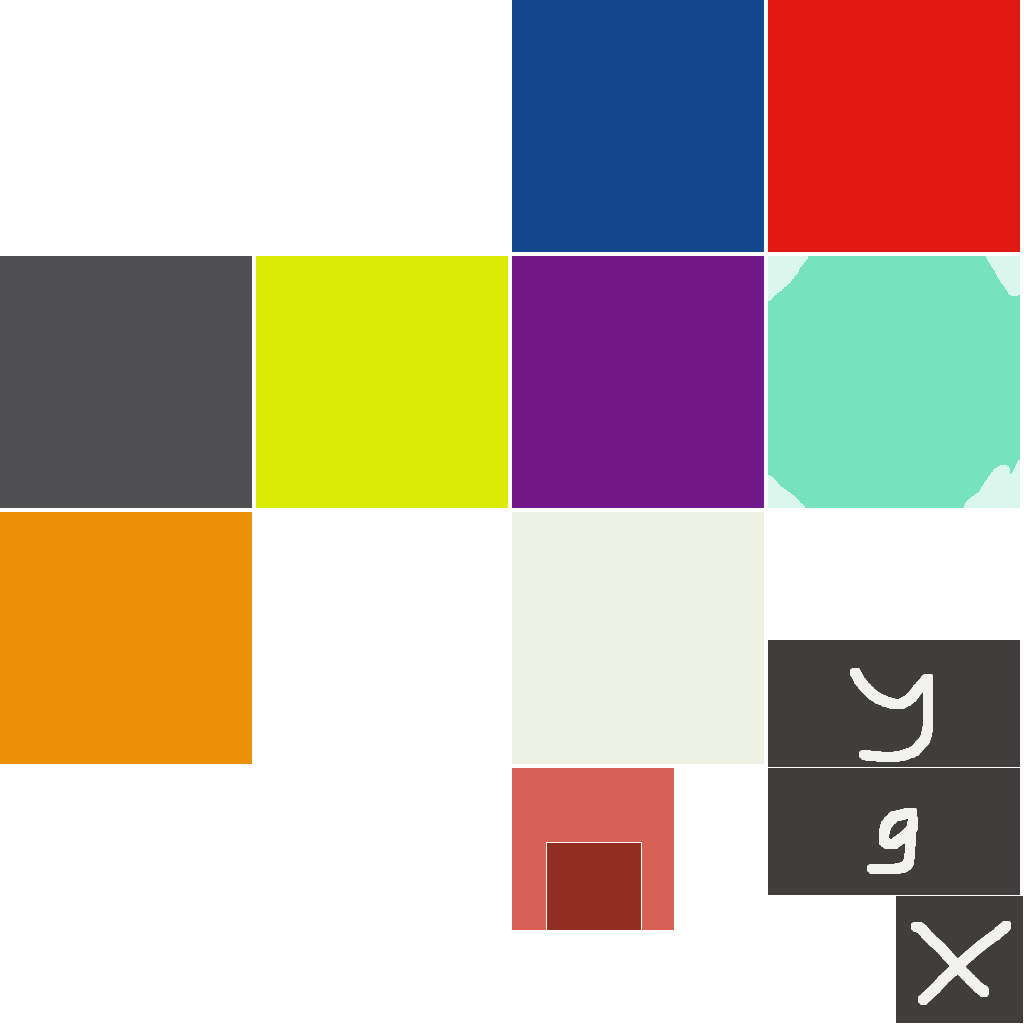
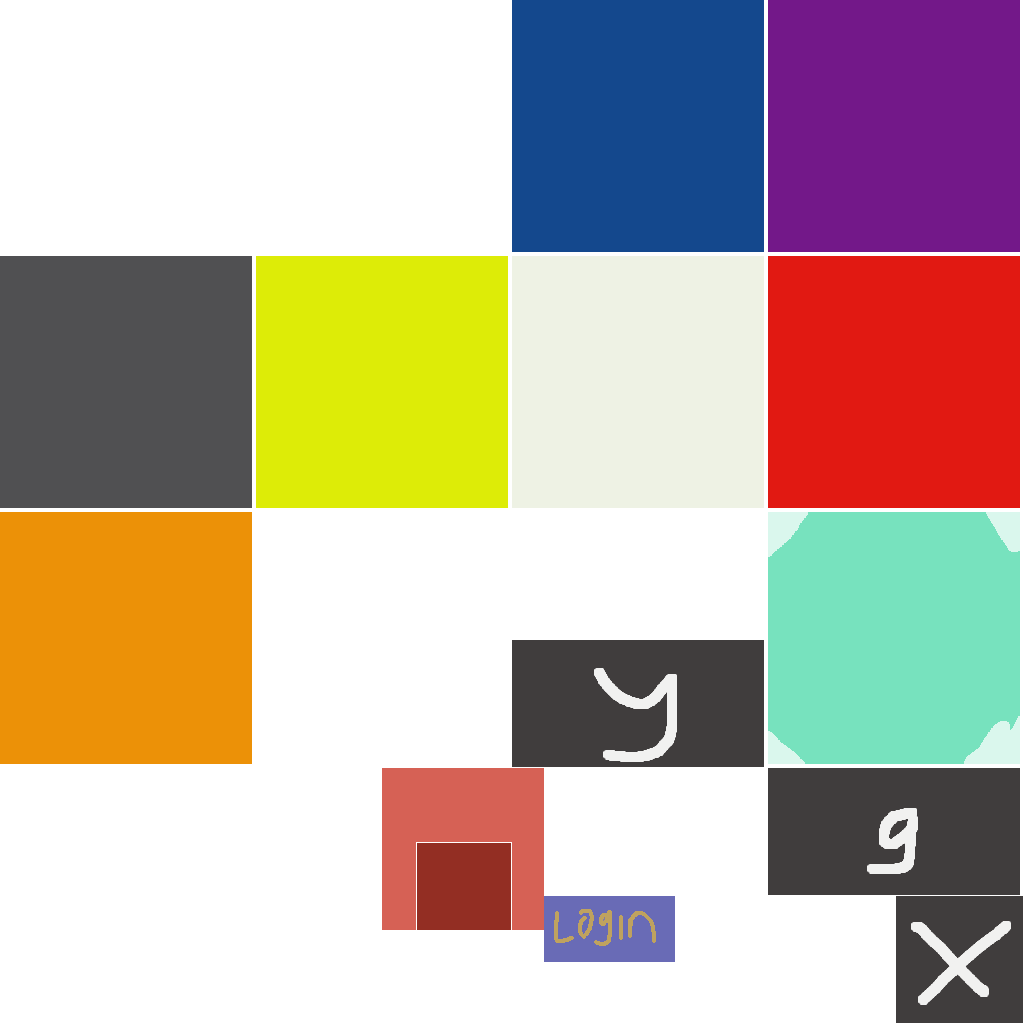
upd game-perempat: loading and login screen

diff --git a/game-perempat/scripts/c3runtime.js b/game-perempat/scripts/c3runtime.js
@@ -3121,40 +3121,6 @@ currenteventsheetname(){return this._runtime.GetCurrentEvent().GetEventSheet().G
 }
 
 {
-'use strict';const C3=self.C3;const DOM_COMPONENT_ID="iframe";C3.Plugins.iframe=class IframePlugin extends C3.SDKDOMPluginBase{constructor(opts){super(opts,DOM_COMPONENT_ID)}Release(){super.Release()}};
-
-}
-
-{
-'use strict';const C3=self.C3;C3.Plugins.iframe.Type=class IframeType extends C3.SDKTypeBase{constructor(objectClass){super(objectClass)}Release(){super.Release()}OnCreate(){}};
-
-}
-
-{
-'use strict';const C3=self.C3;const C3X=self.C3X;const DOM_COMPONENT_ID="iframe";
-C3.Plugins.iframe.Instance=class IframeInstance extends C3.SDKDOMInstanceBase{constructor(inst,properties){super(inst,DOM_COMPONENT_ID);this._url="";let initialHtmlStr="";this._id="";this._allowAttrib="";this._enableSandbox=false;this._sandboxAttrib="";if(properties){this._url=properties[0];initialHtmlStr=properties[1];this.GetWorldInfo().SetVisible(properties[2]);this._id=properties[3];this._allowAttrib=properties[4];this._enableSandbox=properties[5];this._sandboxAttrib=properties[6]}this.CreateElement({"url":"",
-"html":initialHtmlStr,"id":this._id,"allow":this._allowAttrib,"enableSandbox":this._enableSandbox,"sandbox":this._sandboxAttrib});if(this._url)this._runtime.AddCreatePromise((async()=>{const urlToLoad=await this.GetUrl();await this.PostToDOMElementAsync("navigate-url",{"url":urlToLoad})})())}Release(){super.Release()}GetElementState(){return{}}async GetUrl(url){return await this._runtime.GetAssetManager().GetProjectFileIframeUrl(url||this._url)}Draw(renderer){}SaveToJson(){return{"url":this._url,
-"id":this._id}}LoadFromJson(o){this._url=o["url"];this._id=o["id"];this.UpdateElementState()}GetDebuggerProperties(){const Acts=C3.Plugins.iframe.Acts;const prefix="plugins.iframe";return[{title:prefix+".name",properties:[{name:prefix+".properties.url.name",value:this._url,onedit:v=>this.CallAction(Acts.NavigateURL,v)}]}]}GetScriptInterfaceClass(){return self.IIframeInstance}};const map=new WeakMap;
-self.IIframeInstance=class IIframeInstance extends self.IDOMInstance{constructor(){super();map.set(this,self.IInstance._GetInitInst().GetSdkInstance())}};
-
-}
-
-{
-'use strict';const C3=self.C3;C3.Plugins.iframe.Cnds={};
-
-}
-
-{
-'use strict';const C3=self.C3;C3.Plugins.iframe.Acts={async NavigateURL(url){const urlToLoad=await this.GetUrl(url);this.PostToDOMElement("navigate-url",{"url":urlToLoad})},DisplayHTMLString(html){this.PostToDOMElement("display-html",{"html":html})}};
-
-}
-
-{
-'use strict';const C3=self.C3;C3.Plugins.iframe.Exps={};
-
-}
-
-{
 'use strict';const C3=self.C3;C3.Plugins.Sprite=class SpritePlugin extends C3.SDKPluginBase{constructor(opts){super(opts)}Release(){super.Release()}};
 
 }
@@ -3241,6 +3207,40 @@ err);this.Trigger(C3.Plugins.Sprite.Cnds.OnURLFailed);return}curImageInfo.Replac
 'use strict';const C3=self.C3;
 C3.Plugins.Sprite.Exps={AnimationFrame(){return this._currentFrameIndex},AnimationFrameCount(){return this._currentAnimation.GetFrameCount()},AnimationName(){return this._currentAnimation.GetName()},AnimationSpeed(){return this._GetAnimSpeed()},OriginalAnimationSpeed(){return this._currentAnimation.GetSpeed()},ImagePointX(imgpt){return this.GetImagePoint(imgpt)[0]},ImagePointY(imgpt){return this.GetImagePoint(imgpt)[1]},ImagePointCount(){return this.GetImagePointCount()},ImageWidth(){return this.GetCurrentImageInfo().GetWidth()},
 ImageHeight(){return this.GetCurrentImageInfo().GetHeight()},PolyPointXAt(i){return this.GetCollisionPolyPoint(i)[0]},PolyPointYAt(i){return this.GetCollisionPolyPoint(i)[1]},PolyPointCount(){return this.GetCollisionPolyPointCount()}};
+
+}
+
+{
+'use strict';const C3=self.C3;const DOM_COMPONENT_ID="iframe";C3.Plugins.iframe=class IframePlugin extends C3.SDKDOMPluginBase{constructor(opts){super(opts,DOM_COMPONENT_ID)}Release(){super.Release()}};
+
+}
+
+{
+'use strict';const C3=self.C3;C3.Plugins.iframe.Type=class IframeType extends C3.SDKTypeBase{constructor(objectClass){super(objectClass)}Release(){super.Release()}OnCreate(){}};
+
+}
+
+{
+'use strict';const C3=self.C3;const C3X=self.C3X;const DOM_COMPONENT_ID="iframe";
+C3.Plugins.iframe.Instance=class IframeInstance extends C3.SDKDOMInstanceBase{constructor(inst,properties){super(inst,DOM_COMPONENT_ID);this._url="";let initialHtmlStr="";this._id="";this._allowAttrib="";this._enableSandbox=false;this._sandboxAttrib="";if(properties){this._url=properties[0];initialHtmlStr=properties[1];this.GetWorldInfo().SetVisible(properties[2]);this._id=properties[3];this._allowAttrib=properties[4];this._enableSandbox=properties[5];this._sandboxAttrib=properties[6]}this.CreateElement({"url":"",
+"html":initialHtmlStr,"id":this._id,"allow":this._allowAttrib,"enableSandbox":this._enableSandbox,"sandbox":this._sandboxAttrib});if(this._url)this._runtime.AddCreatePromise((async()=>{const urlToLoad=await this.GetUrl();await this.PostToDOMElementAsync("navigate-url",{"url":urlToLoad})})())}Release(){super.Release()}GetElementState(){return{}}async GetUrl(url){return await this._runtime.GetAssetManager().GetProjectFileIframeUrl(url||this._url)}Draw(renderer){}SaveToJson(){return{"url":this._url,
+"id":this._id}}LoadFromJson(o){this._url=o["url"];this._id=o["id"];this.UpdateElementState()}GetDebuggerProperties(){const Acts=C3.Plugins.iframe.Acts;const prefix="plugins.iframe";return[{title:prefix+".name",properties:[{name:prefix+".properties.url.name",value:this._url,onedit:v=>this.CallAction(Acts.NavigateURL,v)}]}]}GetScriptInterfaceClass(){return self.IIframeInstance}};const map=new WeakMap;
+self.IIframeInstance=class IIframeInstance extends self.IDOMInstance{constructor(){super();map.set(this,self.IInstance._GetInitInst().GetSdkInstance())}};
+
+}
+
+{
+'use strict';const C3=self.C3;C3.Plugins.iframe.Cnds={};
+
+}
+
+{
+'use strict';const C3=self.C3;C3.Plugins.iframe.Acts={async NavigateURL(url){const urlToLoad=await this.GetUrl(url);this.PostToDOMElement("navigate-url",{"url":urlToLoad})},DisplayHTMLString(html){this.PostToDOMElement("display-html",{"html":html})}};
+
+}
+
+{
+'use strict';const C3=self.C3;C3.Plugins.iframe.Exps={};
 
 }
 
@@ -3653,6 +3653,47 @@ WindowInnerWidth(){return this._runtime.GetCanvasManager().GetLastWidth()},Windo
 }
 
 {
+'use strict';const C3=self.C3;const DOM_COMPONENT_ID="text-input";C3.Plugins.TextBox=class TextInputPlugin extends C3.SDKDOMPluginBase{constructor(opts){super(opts,DOM_COMPONENT_ID);this.AddElementMessageHandler("click",(sdkInst,e)=>sdkInst._OnClick(e));this.AddElementMessageHandler("dblclick",(sdkInst,e)=>sdkInst._OnDoubleClick(e));this.AddElementMessageHandler("change",(sdkInst,e)=>sdkInst._OnChange(e))}Release(){super.Release()}};
+
+}
+
+{
+'use strict';const C3=self.C3;C3.Plugins.TextBox.Type=class TextInputType extends C3.SDKTypeBase{constructor(objectClass){super(objectClass)}Release(){super.Release()}OnCreate(){}};
+
+}
+
+{
+'use strict';const C3=self.C3;const C3X=self.C3X;const TEXT=0;const PLACEHOLDER=1;const TOOLTIP=2;const INITIALLY_VISIBLE=3;const ENABLE=4;const READ_ONLY=5;const SPELL_CHECK=6;const TYPE=7;const AUTO_FONT_SIZE=8;const ID=9;const DOM_COMPONENT_ID="text-input";const elemTypes=["text","password","email","number","tel","url","textarea","search"];
+C3.Plugins.TextBox.Instance=class TextInputInstance extends C3.SDKDOMInstanceBase{constructor(inst,properties){super(inst,DOM_COMPONENT_ID);this._text="";this._placeholder="";this._title="";this._isEnabled=true;this._isReadOnly=false;this._spellCheck=false;this._type="text";this._autoFontSize=true;this._maxLength=-1;this._id="";if(properties){this._text=properties[TEXT];this._placeholder=properties[PLACEHOLDER];this._title=properties[TOOLTIP];this.GetWorldInfo().SetVisible(properties[INITIALLY_VISIBLE]);
+this._isEnabled=properties[ENABLE];this._isReadOnly=properties[READ_ONLY];this._spellCheck=properties[SPELL_CHECK];this._type=elemTypes[properties[TYPE]];this._autoFontSize=properties[AUTO_FONT_SIZE];this._id=properties[ID]}this.CreateElement({"type":this._type,"id":this._id})}Release(){super.Release()}GetElementState(){return{"text":this._text,"placeholder":this._placeholder,"title":this._title,"isEnabled":this._isEnabled,"isReadOnly":this._isReadOnly,"spellCheck":this._spellCheck,"maxLength":this._maxLength}}async _OnClick(e){this.GetScriptInterface().dispatchEvent(C3.New(C3.Event,
+"click",true));await this.TriggerAsync(C3.Plugins.TextBox.Cnds.OnClicked)}async _OnDoubleClick(e){this.GetScriptInterface().dispatchEvent(C3.New(C3.Event,"dblclick",true));await this.TriggerAsync(C3.Plugins.TextBox.Cnds.OnDoubleClicked)}async _OnChange(e){this._text=e["text"];this.GetScriptInterface().dispatchEvent(C3.New(C3.Event,"change",true));await this.TriggerAsync(C3.Plugins.TextBox.Cnds.OnTextChanged)}_SetText(text){if(this._text===text)return;this._text=text;this.UpdateElementState()}_GetText(){return this._text}_SetPlaceholder(placeholder){if(this._placeholder===
+placeholder)return;this._placeholder=placeholder;this.UpdateElementState()}_GetPlaceholder(){return this._placeholder}_SetTooltip(title){if(this._title===title)return;this._title=title;this.UpdateElementState()}_GetTooltip(){return this._title}_SetEnabled(e){e=!!e;if(this._isEnabled===e)return;this._isEnabled=e;this.UpdateElementState()}_IsEnabled(){return this._isEnabled}_SetReadOnly(r){r=!!r;if(this._isReadOnly===r)return;this._isReadOnly=r;this.UpdateElementState()}_IsReadOnly(){return this._isReadOnly}_SetMaxLength(l){l=
+Math.max(+l,-1);if(this._maxLength===l)return;this._maxLength=l;this.UpdateElementState()}_GetMaxLength(){return this._maxLength}_ScrollToBottom(){Promise.resolve().then(()=>this.PostToDOMElement("scroll-to-bottom"))}Draw(renderer){}SaveToJson(){return{"t":this._text,"p":this._placeholder,"ti":this._title,"e":this._isEnabled,"r":this._isReadOnly,"sp":this._spellCheck,"ml":this._maxLength,"type":this._type,"id":this._id}}LoadFromJson(o){this._text=o["t"];this._placeholder=o["p"];this._title=o["ti"];
+this._isEnabled=o["e"];this._isReadOnly=o["r"];this._spellCheck=o["sp"];this._maxLength=o.hasOwnProperty("ml")?o["ml"]:-1;this._type=o["type"];this._id=o["id"];this.UpdateElementState()}GetPropertyValueByIndex(index){switch(index){case TEXT:return this._text;case PLACEHOLDER:return this._placeholder;case TOOLTIP:return this._title;case ENABLE:return this._isEnabled;case READ_ONLY:return this._isReadOnly;case SPELL_CHECK:return this._spellCheck;case AUTO_FONT_SIZE:return this._autoFontSize;case ID:return this._id}}SetPropertyValueByIndex(index,
+value){switch(index){case TEXT:if(this._text===value)return;this._text=value;this.UpdateElementState();break;case PLACEHOLDER:if(this._placeholder===value)return;this._placeholder=value;this.UpdateElementState();break;case TOOLTIP:if(this._title===value)return;this._title=value;this.UpdateElementState();break;case ENABLE:if(this._isEnabled===!!value)return;this._isEnabled=!!value;this.UpdateElementState();break;case READ_ONLY:if(this._isReadOnly===!!value)return;this._isReadOnly=!!value;this.UpdateElementState();
+break;case SPELL_CHECK:if(this._spellCheck===!!value)return;this._spellCheck=!!value;this.UpdateElementState();break;case AUTO_FONT_SIZE:this._autoFontSize=!!value;break;case ID:if(this._id===value)return;this._id=value;this.UpdateElementState();break}}GetDebuggerProperties(){const Acts=C3.Plugins.TextBox.Acts;const prefix="plugins.textbox";return[{title:prefix+".name",properties:[{name:prefix+".properties.text.name",value:this._text,onedit:v=>this.CallAction(Acts.SetText,v)},{name:prefix+".properties.enabled.name",
+value:this._isEnabled,onedit:v=>this.CallAction(Acts.SetEnabled,v)},{name:prefix+".properties.read-only.name",value:this._isReadOnly,onedit:v=>this.CallAction(Acts.SetReadOnly,v)}]}]}GetScriptInterfaceClass(){return self.ITextInputInstance}};const map=new WeakMap;
+self.ITextInputInstance=class ITextInputInstance extends self.IDOMInstance{constructor(){super();map.set(this,self.IInstance._GetInitInst().GetSdkInstance())}set text(str){C3X.RequireString(str);map.get(this)._SetText(str)}get text(){return map.get(this)._GetText()}set placeholder(str){C3X.RequireString(str);map.get(this)._SetPlaceholder(str)}get placeholder(){return map.get(this)._GetPlaceholder()}set tooltip(str){C3X.RequireString(str);map.get(this)._SetTooltip(str)}get tooltip(){return map.get(this)._GetTooltip()}set isEnabled(e){map.get(this)._SetEnabled(e)}get isEnabled(){return map.get(this)._IsEnabled()}set isReadOnly(r){map.get(this)._SetReadOnly(r)}get isReadOnly(){return map.get(this)._IsReadOnly()}set maxLength(l){C3X.RequireFiniteNumber(l);
+map.get(this)._SetMaxLength(l)}get maxLength(){return map.get(this)._GetMaxLength()}scrollToBottom(){map.get(this)._ScrollToBottom()}};
+
+}
+
+{
+'use strict';const C3=self.C3;C3.Plugins.TextBox.Cnds={CompareText(text,case_){if(case_===0)return C3.equalsNoCase(this._text,text);else return this._text===text},OnTextChanged(){return true},OnClicked(){return true},OnDoubleClicked(){return true}};
+
+}
+
+{
+'use strict';const C3=self.C3;C3.Plugins.TextBox.Acts={SetText(param){this._SetText(param.toString())},AppendText(param){if(param==="")return;this._SetText(this._GetText()+param)},SetPlaceholder(placeholder){this._SetPlaceholder(placeholder)},SetTooltip(title){this._SetTooltip(title)},SetReadOnly(r){this._SetReadOnly(r===0)},ScrollToBottom(){this._ScrollToBottom()},SetMaxLength(l){this._SetMaxLength(l)}};
+
+}
+
+{
+'use strict';const C3=self.C3;C3.Plugins.TextBox.Exps={Text(){return this._GetText()},MaxLength(){return this._GetMaxLength()}};
+
+}
+
+{
 'use strict';const C3=self.C3;C3.Behaviors.EightDir=class EightDirBehavior extends C3.SDKBehaviorBase{constructor(opts){super(opts)}Release(){super.Release()}};
 
 }
@@ -3913,8 +3954,8 @@ this.GetBehaviorType().GetName(),properties:[{name:"behaviors.solid.properties.e
 const C3 = self.C3;
 self.C3_GetObjectRefTable = function () {
 	return [
-		C3.Plugins.iframe,
 		C3.Plugins.Sprite,
+		C3.Plugins.iframe,
 		C3.Behaviors.EightDir,
 		C3.Behaviors.scrollto,
 		C3.Behaviors.Timer,
@@ -3928,6 +3969,7 @@ self.C3_GetObjectRefTable = function () {
 		C3.Plugins.Date,
 		C3.Plugins.Browser,
 		C3.Behaviors.solid,
+		C3.Plugins.TextBox,
 		C3.Plugins.System.Cnds.OnLayoutStart,
 		C3.Plugins.System.Acts.SetLayerVisible,
 		C3.Plugins.System.Acts.WaitForPreviousActions,
@@ -3990,13 +4032,21 @@ self.C3_GetObjectRefTable = function () {
 		C3.Plugins.System.Acts.GoToLayout,
 		C3.Behaviors.Tween.Cnds.OnTweensFinished,
 		C3.Plugins.Spritefont2.Acts.Destroy,
+		C3.Plugins.System.Cnds.EveryTick,
+		C3.Plugins.TextBox.Acts.SetCSSStyle,
 		C3.Plugins.AJAX.Acts.RequestFile,
 		C3.Plugins.AJAX.Exps.LastData,
 		C3.Plugins.Dictionary.Acts.JSONLoad,
-		C3.Plugins.Date.Exps.Parse
+		C3.Plugins.Date.Exps.Parse,
+		C3.Plugins.System.Acts.LoadLayoutTextures,
+		C3.Plugins.System.Cnds.Every,
+		C3.Plugins.System.Cnds.Repeat,
+		C3.Plugins.Spritefont2.Acts.AppendText,
+		C3.Plugins.System.Cnds.OnImageLoadingComplete
 	];
 };
 self.C3_JsPropNameTable = [
+	{loginButton: 0},
 	{game: 0},
 	{normalSpeed: 0},
 	{normalAccel: 0},
@@ -4033,6 +4083,9 @@ self.C3_JsPropNameTable = [
 	{freezeTrap: 0},
 	{Solid: 0},
 	{Sprite2: 0},
+	{Username: 0},
+	{Password: 0},
+	{LoadingText: 0},
 	{solid: 0},
 	{Z_Ordering: 0},
 	{link: 0},
@@ -4043,7 +4096,8 @@ self.C3_JsPropNameTable = [
 	{soalHtmlContent: 0},
 	{endTime: 0},
 	{uid: 0},
-	{duration: 0}
+	{duration: 0},
+	{dot: 0}
 ];
 }
 
@@ -4225,6 +4279,8 @@ self.C3_ExpressionFuncs = [
 		() => "narasi 3",
 		() => 4,
 		() => 0.5,
+		() => "font-size",
+		() => "2vw",
 		p => {
 			const f0 = p._GetNode(0).GetBoundMethod();
 			return () => f0();
@@ -4234,7 +4290,9 @@ self.C3_ExpressionFuncs = [
 			const f0 = p._GetNode(0).GetBoundMethod();
 			const n1 = p._GetNode(1);
 			return () => f0(n1.ExpObject("end-time"));
-		}
+		},
+		() => "Loading",
+		() => "."
 ];
 
 

diff --git a/game-perempat/scripts/main.js b/game-perempat/scripts/main.js
@@ -129,3 +129,7 @@ e["url"];const tag=e["tag"];if(self["cordova"]&&self["cordova"]["InAppBrowser"])
 else if(navUI===2)opts["navigationUI"]="show";const elem=document.documentElement;if(elem["requestFullscreen"])elem["requestFullscreen"](opts);else if(elem["mozRequestFullScreen"])elem["mozRequestFullScreen"](opts);else if(elem["msRequestFullscreen"])elem["msRequestFullscreen"](opts);else if(elem["webkitRequestFullScreen"])if(typeof Element["ALLOW_KEYBOARD_INPUT"]!=="undefined")elem["webkitRequestFullScreen"](Element["ALLOW_KEYBOARD_INPUT"]);else elem["webkitRequestFullScreen"]()}}_OnExitFullscreen(){if(this._exportType===
 "windows-webview2"||this._exportType==="macos-wkwebview"){self.RuntimeInterface._SetWrapperIsFullscreenFlag(false);this._iRuntime._SendWrapperMessage({"type":"set-fullscreen","fullscreen":false})}else if(document["exitFullscreen"])document["exitFullscreen"]();else if(document["mozCancelFullScreen"])document["mozCancelFullScreen"]();else if(document["msExitFullscreen"])document["msExitFullscreen"]();else if(document["webkitCancelFullScreen"])document["webkitCancelFullScreen"]()}_OnSetHash(e){location.hash=
 e["hash"]}_OnHashChange(){this.PostToRuntime("hashchange",{"location":location.toString()})}};self.RuntimeInterface.AddDOMHandlerClass(HANDLER_CLASS)};
+'use strict';{const DOM_COMPONENT_ID="text-input";function StopPropagation(e){e.stopPropagation()}function StopKeyPropagation(e){if(e.which!==13&&e.which!==27)e.stopPropagation()}const HANDLER_CLASS=class TextInputDOMHandler extends self.DOMElementHandler{constructor(iRuntime){super(iRuntime,DOM_COMPONENT_ID);this.AddDOMElementMessageHandler("scroll-to-bottom",elem=>this._OnScrollToBottom(elem))}CreateElement(elementId,e){let elem;const type=e["type"];if(type==="textarea"){elem=document.createElement("textarea");
+elem.style.resize="none"}else{elem=document.createElement("input");elem.type=type}elem.style.position="absolute";elem.autocomplete="off";elem.addEventListener("touchstart",StopPropagation);elem.addEventListener("touchmove",StopPropagation);elem.addEventListener("touchend",StopPropagation);elem.addEventListener("mousedown",StopPropagation);elem.addEventListener("mouseup",StopPropagation);elem.addEventListener("keydown",StopKeyPropagation);elem.addEventListener("keyup",StopKeyPropagation);elem.addEventListener("click",
+e=>{e.stopPropagation();this._PostToRuntimeElementMaybeSync("click",elementId)});elem.addEventListener("dblclick",e=>{e.stopPropagation();this._PostToRuntimeElementMaybeSync("dblclick",elementId)});elem.addEventListener("input",()=>this.PostToRuntimeElement("change",elementId,{"text":elem.value}));if(e["id"])elem.id=e["id"];this.UpdateState(elem,e);return elem}UpdateState(elem,e){elem.value=e["text"];elem.placeholder=e["placeholder"];elem.title=e["title"];elem.disabled=!e["isEnabled"];elem.readOnly=
+e["isReadOnly"];elem.spellcheck=e["spellCheck"];const maxLength=e["maxLength"];if(maxLength<0)elem.removeAttribute("maxlength");else elem.setAttribute("maxlength",maxLength)}_OnScrollToBottom(elem){elem.scrollTop=elem.scrollHeight}};self.RuntimeInterface.AddDOMHandlerClass(HANDLER_CLASS)};
